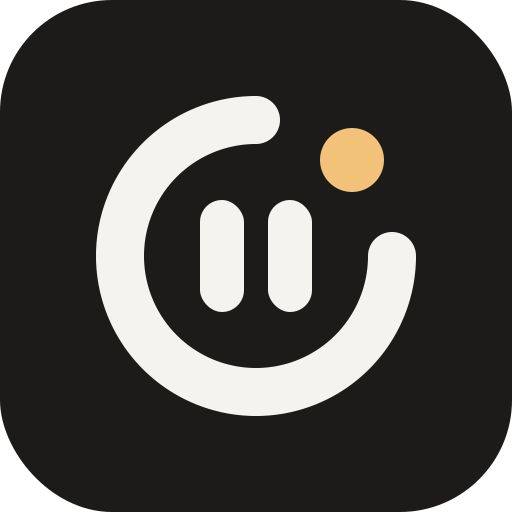
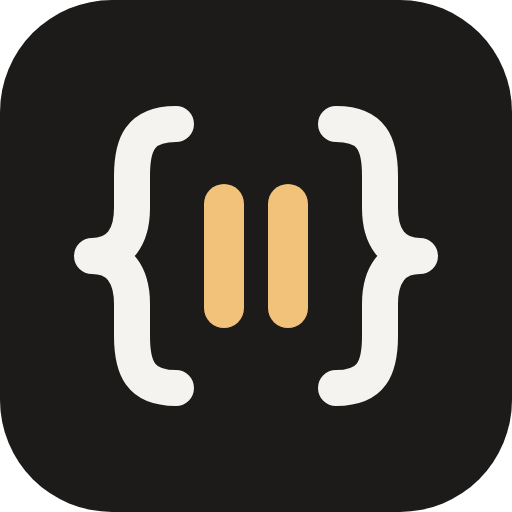
feat: icone novo do Portal SDK, opcao B (chaves com pausa) (lote NC e icone, commit 5)
Escolhida pelo responsavel entre as tres opcoes de 2026-11-23. BrandMark
com SVG inline, sem cor fixa nem style: placa no token do bg-action,
chaves no text-action-ink e as barras da pausa no pause-line (10,4:1 no
claro e 6,4:1 no escuro). favicon.svg com cores fixas, sem depender de
tema; favicon-16.svg com desenho proprio; favicon.ico (16, 32 e 48 em
PNG), favicon.png (64), apple-touch-icon.png (180, opaco) e icon-512.png
gerados dos SVG pelo Chrome headless, sem dependencia nova. Links com
?v=3 no index.html e nas 5 paginas PHP.

qa:bundle (?v=3, favicon sem tema, tamanhos e o .ico em PNG), qa:shell
(a geometria da opcao B e os tokens) e o bloco da marca no navegador.

diff --git a/frontend/src/components/BrandMark.jsx b/frontend/src/components/BrandMark.jsx
@@ -1,22 +1,24 @@
-// [Marca, 2026-11-16] O desenho do favicon (mostrador de timer, pausa e o
-// ponto da situação "Em pausa"; docs/design/marca) em SVG inline, na mesma
-// geometria do favicon.svg (viewBox 64 x 64). Sem cor fixa: a placa usa o
-// token do bg-action como preenchimento (fill-action: num <rect> de SVG o
-// fundo é o fill), o anel e as barras o currentColor do text-action-ink, e o
-// ponto o token da situação "Em pausa"
-// (pause-line: contraste de 10,4:1 no tema claro e 6,4:1 no escuro; o
-// pause do texto daria 2,4:1 e 1,4:1). Sem atributo style (CSP style-src
-// 'self'). Decorativa: o nome "Portal SDK" vem sempre escrito ao lado.
+// [Marca, 2026-11-23] O desenho do favicon (opção B, "chaves com pausa": as
+// chaves de código com o sinal de pausa entre elas; docs/design/marca) em SVG
+// inline, na mesma geometria do favicon.svg (viewBox 64 x 64). Sem cor fixa:
+// a placa usa o token do bg-action como preenchimento (fill-action: num
+// <rect> de SVG o fundo é o fill), as chaves o currentColor do
+// text-action-ink e as barras da pausa o token da situação "Em pausa"
+// (pause-line: contraste de 10,4:1 no tema claro e 6,4:1 no escuro contra a
+// placa; o pause do texto daria 2,4:1 e 1,4:1). Sem atributo style (CSP
+// style-src 'self'). Decorativa: o nome "Portal SDK" vem sempre escrito ao lado.
 export function BrandMark({ className = 'h-10 w-10' }) {
   return (
     <svg aria-hidden="true" className={`shrink-0 select-none ${className}`} data-brand-mark="" focusable="false" viewBox="0 0 64 64" xmlns="http://www.w3.org/2000/svg">
       <rect className="fill-action" height="64" rx="14" width="64" />
-      <g className="text-action-ink">
-        <path d="M49 32 A17 17 0 1 1 32 15" fill="none" stroke="currentColor" strokeLinecap="round" strokeWidth="6" />
-        <rect fill="currentColor" height="14" rx="2.75" width="5.5" x="25" y="25" />
-        <rect fill="currentColor" height="14" rx="2.75" width="5.5" x="33.5" y="25" />
+      <g className="text-action-ink" fill="none" stroke="currentColor" strokeLinecap="round" strokeLinejoin="round" strokeWidth="4.5">
+        <path d="M22 15.5 C17.5 15.5 16.5 18 16.5 22 L16.5 26 C16.5 29.5 15 32 11.5 32 C15 32 16.5 34.5 16.5 38 L16.5 42 C16.5 46 17.5 48.5 22 48.5" />
+        <path d="M42 15.5 C46.5 15.5 47.5 18 47.5 22 L47.5 26 C47.5 29.5 49 32 52.5 32 C49 32 47.5 34.5 47.5 38 L47.5 42 C47.5 46 46.5 48.5 42 48.5" />
       </g>
-      <circle className="fill-pause-line" cx="44" cy="20" data-brand-dot="" r="4" />
+      <g className="fill-pause-line" data-brand-pause="">
+        <rect height="18" rx="2.5" width="5" x="25.5" y="23" />
+        <rect height="18" rx="2.5" width="5" x="33.5" y="23" />
+      </g>
     </svg>
   )
 }

diff --git a/frontend/index.html b/frontend/index.html
@@ -6,9 +6,9 @@
     <meta name="color-scheme" content="light dark" />
     <meta name="theme-color" content="#F4F3EF" media="(prefers-color-scheme: light)" />
     <meta name="theme-color" content="#141413" media="(prefers-color-scheme: dark)" />
-    <link rel="icon" href="/app/favicon.ico?v=2" sizes="32x32" />
-    <link rel="icon" href="/app/favicon.svg?v=2" type="image/svg+xml" />
-    <link rel="apple-touch-icon" href="/app/apple-touch-icon.png?v=2" />
+    <link rel="icon" href="/app/favicon.ico?v=3" sizes="32x32" />
+    <link rel="icon" href="/app/favicon.svg?v=3" type="image/svg+xml" />
+    <link rel="apple-touch-icon" href="/app/apple-touch-icon.png?v=3" />
     <title>Portal SDK</title>
   </head>
   <body>

diff --git a/admin.php b/admin.php
@@ -44,9 +44,9 @@ $base_path_admin = get_base_path();
     <meta http-equiv="Pragma" content="no-cache">
     <meta http-equiv="Expires" content="0">
     <title>Painel Administrativo - Portal SDK</title>
-    <link rel="icon" href="<?php echo sanitize_attr($base_path_admin . '/app/favicon.ico?v=2'); ?>" sizes="32x32">
-    <link rel="icon" href="<?php echo sanitize_attr($base_path_admin . '/app/favicon.svg?v=2'); ?>" type="image/svg+xml">
-    <link rel="apple-touch-icon" href="<?php echo sanitize_attr($base_path_admin . '/app/apple-touch-icon.png?v=2'); ?>">
+    <link rel="icon" href="<?php echo sanitize_attr($base_path_admin . '/app/favicon.ico?v=3'); ?>" sizes="32x32">
+    <link rel="icon" href="<?php echo sanitize_attr($base_path_admin . '/app/favicon.svg?v=3'); ?>" type="image/svg+xml">
+    <link rel="apple-touch-icon" href="<?php echo sanitize_attr($base_path_admin . '/app/apple-touch-icon.png?v=3'); ?>">
     <link rel="stylesheet" href="<?php echo htmlspecialchars($base_path_admin . '/static/css/style.css?v=' . time()); ?>" type="text/css">
     <link rel="stylesheet" href="<?php echo htmlspecialchars($base_path_admin . '/static/css/admin.css?v=' . time()); ?>" type="text/css">
     <script src="<?php echo htmlspecialchars($base_path_admin . '/static/js/csrf_fetch.js?v=' . time()); ?>"></script>

diff --git a/admin_login.php b/admin_login.php
@@ -85,9 +85,9 @@ if ($_SERVER['REQUEST_METHOD'] === 'POST') {
     <meta name="viewport" content="width=device-width, initial-scale=1.0">
     <meta http-equiv="Cache-Control" content="no-cache, no-store, must-revalidate">
     <title>Login administrativo - Portal SDK</title>
-    <link rel="icon" href="<?php echo sanitize_attr(get_base_path() . '/app/favicon.ico?v=2'); ?>" sizes="32x32">
-    <link rel="icon" href="<?php echo sanitize_attr(get_base_path() . '/app/favicon.svg?v=2'); ?>" type="image/svg+xml">
-    <link rel="apple-touch-icon" href="<?php echo sanitize_attr(get_base_path() . '/app/apple-touch-icon.png?v=2'); ?>">
+    <link rel="icon" href="<?php echo sanitize_attr(get_base_path() . '/app/favicon.ico?v=3'); ?>" sizes="32x32">
+    <link rel="icon" href="<?php echo sanitize_attr(get_base_path() . '/app/favicon.svg?v=3'); ?>" type="image/svg+xml">
+    <link rel="apple-touch-icon" href="<?php echo sanitize_attr(get_base_path() . '/app/apple-touch-icon.png?v=3'); ?>">
     <link rel="stylesheet" href="<?php echo sanitize_attr(get_base_path() . '/static/css/style.css'); ?>">
     <link rel="stylesheet" href="<?php echo sanitize_attr(get_base_path() . '/static/css/login.css'); ?>">
     <script src="<?php echo sanitize_attr(get_base_path() . '/static/js/theme.js'); ?>" defer></script>

diff --git a/login.php b/login.php
@@ -81,9 +81,9 @@ if ($_SERVER['REQUEST_METHOD'] === 'POST') {
     <meta name="viewport" content="width=device-width, initial-scale=1.0">
     <meta http-equiv="Cache-Control" content="no-cache, no-store, must-revalidate">
     <title>Login de métricas - Portal SDK</title>
-    <link rel="icon" href="<?php echo sanitize_attr(get_base_path() . '/app/favicon.ico?v=2'); ?>" sizes="32x32">
-    <link rel="icon" href="<?php echo sanitize_attr(get_base_path() . '/app/favicon.svg?v=2'); ?>" type="image/svg+xml">
-    <link rel="apple-touch-icon" href="<?php echo sanitize_attr(get_base_path() . '/app/apple-touch-icon.png?v=2'); ?>">
+    <link rel="icon" href="<?php echo sanitize_attr(get_base_path() . '/app/favicon.ico?v=3'); ?>" sizes="32x32">
+    <link rel="icon" href="<?php echo sanitize_attr(get_base_path() . '/app/favicon.svg?v=3'); ?>" type="image/svg+xml">
+    <link rel="apple-touch-icon" href="<?php echo sanitize_attr(get_base_path() . '/app/apple-touch-icon.png?v=3'); ?>">
     <link rel="stylesheet" href="<?php echo sanitize_attr(get_base_path() . '/static/css/style.css'); ?>">
     <link rel="stylesheet" href="<?php echo sanitize_attr(get_base_path() . '/static/css/login.css'); ?>">
     <script src="<?php echo sanitize_attr(get_base_path() . '/static/js/theme.js'); ?>" defer></script>

diff --git a/metricas.php b/metricas.php
@@ -20,9 +20,9 @@ verificar_login();
     // Calcular caminho base
     $base_path_metricas = get_base_path();
     ?>
-    <link rel="icon" href="<?php echo sanitize_attr($base_path_metricas . '/app/favicon.ico?v=2'); ?>" sizes="32x32">
-    <link rel="icon" href="<?php echo sanitize_attr($base_path_metricas . '/app/favicon.svg?v=2'); ?>" type="image/svg+xml">
-    <link rel="apple-touch-icon" href="<?php echo sanitize_attr($base_path_metricas . '/app/apple-touch-icon.png?v=2'); ?>">
+    <link rel="icon" href="<?php echo sanitize_attr($base_path_metricas . '/app/favicon.ico?v=3'); ?>" sizes="32x32">
+    <link rel="icon" href="<?php echo sanitize_attr($base_path_metricas . '/app/favicon.svg?v=3'); ?>" type="image/svg+xml">
+    <link rel="apple-touch-icon" href="<?php echo sanitize_attr($base_path_metricas . '/app/apple-touch-icon.png?v=3'); ?>">
     <link rel="stylesheet" href="<?php echo htmlspecialchars($base_path_metricas . '/static/css/style.css?v=' . time()); ?>" type="text/css">
     <link rel="stylesheet" href="<?php echo htmlspecialchars($base_path_metricas . '/static/css/metricas.css?v=' . time()); ?>" type="text/css">
     <script src="<?php echo htmlspecialchars($base_path_metricas . '/static/js/csrf_fetch.js'); ?>"></script>

diff --git a/index.php b/index.php
@@ -16,9 +16,9 @@ $ci_nome = $_SESSION['ci_nome'] ?? '';
     <meta http-equiv="Pragma" content="no-cache">
     <meta http-equiv="Expires" content="0">
     <title>Portal SDK - Gestão de Tempo</title>
-    <link rel="icon" href="<?php echo sanitize_attr(get_base_path() . '/app/favicon.ico?v=2'); ?>" sizes="32x32">
-    <link rel="icon" href="<?php echo sanitize_attr(get_base_path() . '/app/favicon.svg?v=2'); ?>" type="image/svg+xml">
-    <link rel="apple-touch-icon" href="<?php echo sanitize_attr(get_base_path() . '/app/apple-touch-icon.png?v=2'); ?>">
+    <link rel="icon" href="<?php echo sanitize_attr(get_base_path() . '/app/favicon.ico?v=3'); ?>" sizes="32x32">
+    <link rel="icon" href="<?php echo sanitize_attr(get_base_path() . '/app/favicon.svg?v=3'); ?>" type="image/svg+xml">
+    <link rel="apple-touch-icon" href="<?php echo sanitize_attr(get_base_path() . '/app/apple-touch-icon.png?v=3'); ?>">
     <?php
     $base_path_test = dirname($_SERVER['SCRIPT_NAME']);
     if ($base_path_test === '/') $base_path_test = '';

diff --git a/docs/design/marca/NOTA.md b/docs/design/marca/NOTA.md
@@ -1,18 +1,20 @@
-# Marca do Portal SDK (ícone, 2026-11-16)
+# Marca do Portal SDK (ícone)
 
-**Conceito:** um mostrador de timer (o anel de 3/4) com o sinal de pausa (as duas barras) e o ponto âmbar da situação "Em pausa". É o que o portal faz: o tempo das pausas da equipe.
+**Ícone atual (2026-11-23): opção B, "chaves com pausa".** As chaves de código `{ }` com o sinal de pausa (as duas barras âmbar) entre elas: o suporte de TI e o tempo das pausas da equipe. Escolhida pelo responsável entre as três opções de `_referencias\icone\opcoes-2026-11-23\` (fora do git). Substitui o mostrador de timer de 2026-11-16 (`2ace053`).
 
-**Cores:** os tokens da direção A do redesenho (`frontend/src/index.css`). No favicon, fixas por tema (o SVG tem `@media (prefers-color-scheme: dark)` interno): placa `#1C1B19` e símbolos `#F4F3EF` no claro, invertidos no escuro (placa `#EEECE6`, símbolos `#1C1B19`); o ponto `#F2C27A` no claro e `#B86A00` no escuro. Na marca do topo (`BrandMark.jsx`, SVG inline, mesma geometria em 64 x 64), sem cor fixa: a placa no token do botão principal (`action`), os símbolos no `action-ink` e o ponto no token da situação "Em pausa" em `pause-line`. O `pause` do texto daria contraste de 2,4:1 no tema claro e 1,4:1 no escuro contra a placa; o `pause-line` dá 10,4:1 e 6,4:1.
+**Cores:** os tokens da direção A do redesenho (`frontend/src/index.css`).
+- **Favicon** (`favicon.svg` e os PNG/ICO): cores fixas, **sem depender do tema** (sem `<style>` nem `prefers-color-scheme`): placa `#1C1B19`, chaves `#F4F3EF` (15,5:1 contra a placa) e barras `#F2C27A` (10,5:1).
+- **Marca do topo** (`BrandMark.jsx`, SVG inline, mesma geometria em 64 x 64), sem cor fixa: a placa no token do botão principal (`action`), as chaves no `action-ink` (17,2:1 no tema claro e 15,6:1 no escuro) e as barras no token da situação "Em pausa" em `pause-line` (10,4:1 no claro e 6,4:1 no escuro; o `pause` do texto daria 2,4:1 e 1,4:1).
 
 **Arquivos:**
 
 | Arquivo | Onde | Uso |
 |---|---|---|
 | `favicon.svg` | aqui e `frontend/public/` | Fonte e ícone da aba (navegadores atuais) |
-| `favicon-16.svg` | só aqui | Fonte do 16 px do `.ico`: só o anel e o ponto (as barras somem em 16 px) |
+| `favicon-16.svg` | só aqui | Fonte do 16 px do `.ico`: desenho próprio, mais simples (as chaves retas, as barras mais curtas) |
 | `icon-512.png` | só aqui | Fonte em alta (não vai para o build) |
-| `favicon.ico` (16, 32 e 48), `favicon.png` (64), `apple-touch-icon.png` (180, opaco, sem cantos: o iOS arredonda) | `frontend/public/` | Navegadores antigos e iOS |
+| `favicon.ico` (16, 32 e 48, entradas PNG), `favicon.png` (64, com transparência), `apple-touch-icon.png` (180, opaco, sem cantos: o iOS arredonda) | `frontend/public/` | Navegadores antigos e iOS |
 
-Os arquivos vieram prontos (feitos fora do repositório); não são gerados aqui. Os SVG têm só formas, um `<style>` interno e um bloco de metadados de procedência (C2PA): nenhum script nem referência externa. A CSP do portal (`style-src 'self'`) só vale nas respostas `.html` (`.htaccess`), e o `img-src 'self'` cobre os ícones.
+**Como os PNG e o ICO são gerados:** dos SVG deste diretório e do `frontend/public/favicon.svg`, pelo Chrome headless (cada SVG numa página do tamanho exato, fundo transparente), e o `.ico` montado com as três entradas PNG (16 do `favicon-16.svg`; 32 e 48 do `favicon.svg`). O `apple-touch-icon.png` sai do `favicon.svg` com a placa sem cantos. Sem dependência nova. Os SVG do repositório não levam os metadados de procedência (C2PA) das opções: só formas, sem script nem referência externa. A CSP do portal (`style-src 'self'`) só vale nas respostas `.html` (`.htaccess`), e o `img-src 'self'` cobre os ícones.
 
-**No HTML:** `/app/favicon.ico?v=2` (32 x 32), `/app/favicon.svg?v=2` (`image/svg+xml`) e `/app/apple-touch-icon.png?v=2`, nesta ordem, no `index.html` e nas páginas PHP que ainda servem HTML. O `?v=2` vence o cache teimoso de favicon.
+**No HTML:** `/app/favicon.ico?v=3` (32 x 32), `/app/favicon.svg?v=3` (`image/svg+xml`) e `/app/apple-touch-icon.png?v=3`, nesta ordem, no `index.html` e nas páginas PHP que ainda servem HTML (`index`, `login`, `admin_login`, `admin` e `metricas`). O `?v=3` vence o cache teimoso de favicon.
